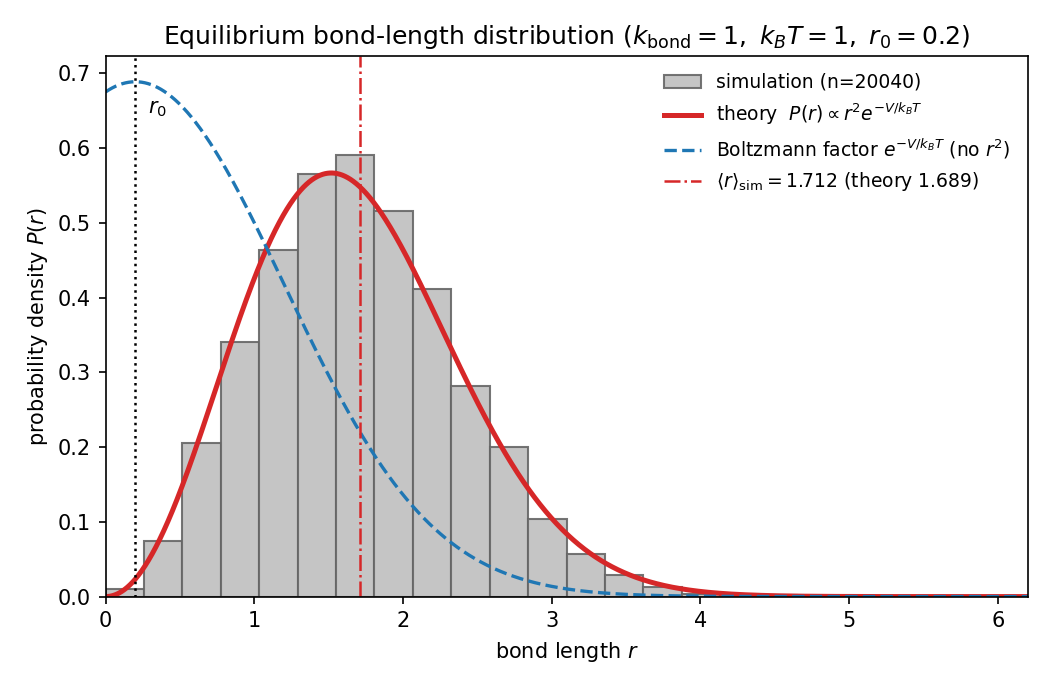
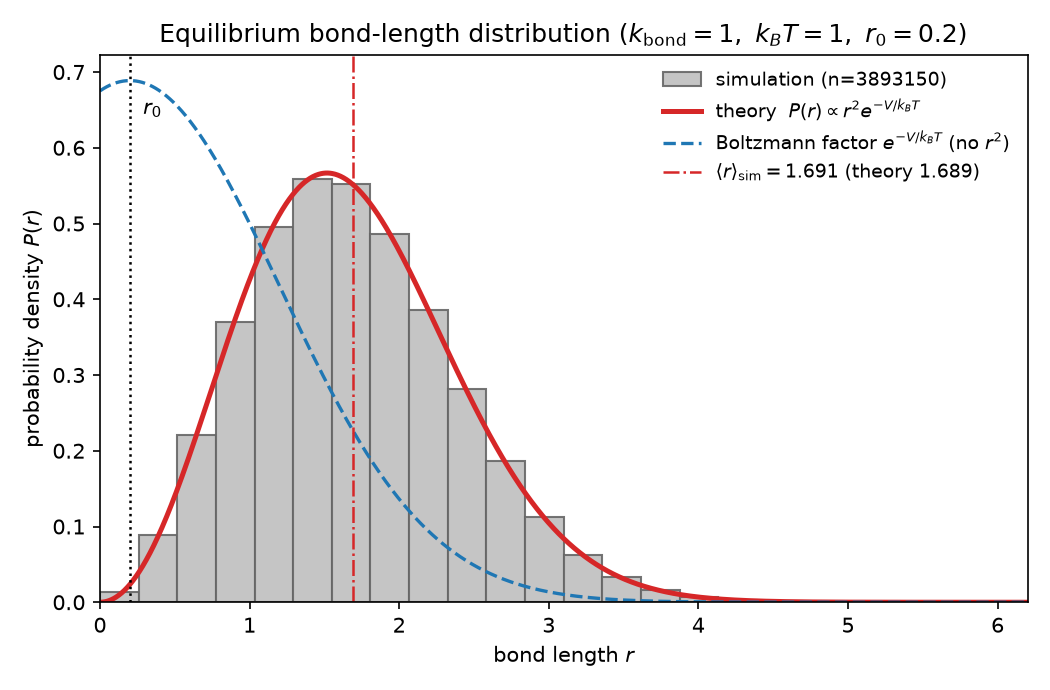
finished running simulation. Get negligble stress with only hundreds of dumbbells

Changed region(s): [[0.0, 0.0304, 0.9752, 0.9739], [0.1829, 0.1826, 0.2133, 0.2435]]

diff --git a/analyze_brownian_stresslet.py b/analyze_brownian_stresslet.py
@@ -1,0 +1,72 @@
+import numpy as np 
+import matplotlib.pyplot as plt
+import pickle
+import os
+
+def read_files(files):
+        traj = []
+        for file in files:
+            with open(file, 'r') as f:
+                lines = f.readlines()
+                particle_data = []
+                for line in lines:
+                    particle_data.append([float(i) for i in line.split()])
+                traj.append(particle_data)
+
+        return traj
+
+beta = 0.1
+fene = False
+
+def main(): 
+    data_dir = f'data/dumbbells_thermal_beta_{beta}_fene_{False}'
+    with open(os.path.join(data_dir, 'params.pkl'), 'rb') as f:
+        params = pickle.load(f)
+
+    data_config_dir = os.path.join(data_dir, 'config')
+    os.chdir(data_config_dir)
+    print(f"Current working directory: {os.getcwd()}")
+
+    files_config = [f for f in os.listdir() if os.path.isfile(f)]
+    files_brownian = [f for f in files_config if 'brownian_stresslet' in f]
+
+    # Sort the files by the number in the filename
+    sort_func = lambda x: float(x.split('_')[2])
+    files_brownian.sort(key=sort_func)
+
+    # Read the files and store the data in a numpy array
+    stresslet = np.array(read_files(files_brownian)).reshape(len(files_brownian), 5)
+
+    print(f"Brownian stresslet data with shape {stresslet.shape} loaded from {data_config_dir}")
+
+    # Stresslets were computed as 
+    # S1 = Sxx - Szz
+    # S2 = Sxy = Syx
+    # S3 = Sxz = Szx
+    # S4 = Syz = Szy
+    # S5 = Syy - Szz
+
+    # Plot the time-series of stresslet components
+    plt.figure(figsize=(10, 6))
+    plt.plot(stresslet[:, 0], label='S1 = Sxx - Szz')
+    # plt.plot(stresslet[:, 1], label='S2 = Sxy = Syx')
+    # plt.plot(stresslet[:, 2], label='S3 = Sxz = Szx')
+    # plt.plot(stresslet[:, 3], label='S4 = Syz = Szy')
+    plt.plot(stresslet[:, 4], label='S5 = Syy - Szz')
+    
+    plt.xlabel('Time step')
+    plt.ylabel('Stresslet components')
+    plt.title('Brownian Stresslet Components Time Series')
+    plt.legend()
+    # plt.savefig(os.path.join(data_dir, 'brownian_stresslet_time_series.png'))
+    plt.show()
+
+    mean_isotropic = np.mean(stresslet[:, 0] + stresslet[:, 4]) / 2
+    print(f"Mean isotropic stresslet: {mean_isotropic}")
+
+    mean_shear = np.mean(stresslet[:, 1:4], axis=0)
+    print(f"Mean shear stresslet components: {mean_shear}")
+    return
+
+if __name__ == "__main__":
+    main()

diff --git a/get_msd.py b/get_msd.py
@@ -1,0 +1,68 @@
+import numpy as np 
+import matplotlib.pyplot as plt
+import gsd.hoomd
+
+def getMSDTensor(r):
+    """
+    Computes the msd tensor for a time series of positions r(t) of a given particle.
+    r: ndarray (Nframes, 3)
+    """
+    # Uses window averaging
+    shifts = np.arange(len(r))
+    msds = np.zeros((shifts.size, 6))
+
+    for i, shift in enumerate(shifts):
+        progress = (i+1)/len(shifts)*100
+        if i % 100 == 0:
+            print(f"Computing MSD tensor: {progress:.2f}% complete")
+        diffs = r[:-shift if shift else None] - r[shift:]
+        diffs_x = diffs[:, 0]
+        diffs_y = diffs[:, 1]
+        diffs_z = diffs[:, 2]
+        msds[i,0] = np.mean(diffs_x**2)
+        msds[i,1] = np.mean(diffs_y**2)
+        msds[i,2] = np.mean(diffs_z**2)
+        msds[i,3] = np.mean(diffs_x*diffs_y)
+        msds[i,4] = np.mean(diffs_x*diffs_z)
+        msds[i,5] = np.mean(diffs_y*diffs_z)
+    return msds
+
+beta = 0.1
+fene = False
+input_file = f"data/dumbbells_thermal_beta_{beta}_fene_{fene}/trajectory.gsd"
+
+def main(): 
+    # Load the trajectory of the last particle
+    with gsd.hoomd.open(name=input_file, mode='r') as traj:
+        traj_colloid = np.array([frame.particles.position[-1] for frame in traj])
+
+    print(f"Trajectory of last particle with shape {traj_colloid.shape} loaded from {input_file}")
+
+    # Compute the MSD tensor
+    msd_tensor = getMSDTensor(traj_colloid)
+
+    # Save the MSD tensor to a file
+    output_file = f"data/dumbbells_thermal_beta_{beta}_fene_{fene}/msd_tensor.npy"
+    np.save(output_file, msd_tensor)
+    print(f"MSD tensor saved to {output_file}")
+
+    # Plot the MSD tensor components
+    plt.figure(figsize=(10, 6))
+    plt.plot(msd_tensor[:, 0], label='MSD_xx')
+    plt.plot(msd_tensor[:, 1], label='MSD_yy')
+    plt.plot(msd_tensor[:, 2], label='MSD_zz')
+    plt.plot(msd_tensor[:, 3], label='MSD_xy')
+    plt.plot(msd_tensor[:, 4], label='MSD_xz')
+    plt.plot(msd_tensor[:, 5], label='MSD_yz')
+    plt.xlabel('Time lag')
+    plt.ylabel('MSD tensor components')
+    plt.title('Mean Squared Displacement Tensor Components')
+    plt.legend()
+    plt.grid()
+    plt.savefig(f"data/dumbbells_thermal_beta_{beta}_fene_{fene}/msd_tensor_plot.png")
+    plt.show()
+    return
+
+
+if __name__ == "__main__":
+    main()

diff --git a/test_sim_dumbbells_thermal.py b/test_sim_dumbbells_thermal.py
@@ -319,7 +319,7 @@ def main(beta=0.1, dt=0.001, tmax=25.0, samplerate=None, run=True, box=None):
     if samplerate is None:
         samplerate = int(1 / dt)               # sample every 1/dt timesteps
 
-    N_dumbbell = 50
+    N_dumbbell = 200
     N_mono = 2                                  # 2-bead dumbbells
     N_trapped = 1                              # single trapped colloid
     N_mono_total = N_dumbbell * N_mono
@@ -328,16 +328,16 @@ def main(beta=0.1, dt=0.001, tmax=25.0, samplerate=None, run=True, box=None):
     # Bond / interaction parameters
     r0 = 2.0 * beta                            # bond rest length (small)
     kbond = 1.0
-    Lmax = 10 * r0                             # unused (harmonic), kept for the API
+    Lmax = 1.5*r0                             # unused (harmonic), kept for the API
     tau = 1000
     kT = 1.0
     epsilon = 1.0                              # WCA excluded-volume energy scale
     ktrap = 10                                # harmonic trap holding the colloid at the origin
-
+    fene = False
     conf = build_initial_config(N_dumbbell, r0, box=box)
     bond_ids = build_bond_ids(N_dumbbell)
 
-    data_save_dir = f'data/dumbbells_thermal_beta_{beta}'
+    data_save_dir = f'data/dumbbells_thermal_beta_{beta}_fene_{fene}'
     data_config_dir = os.path.join(data_save_dir, 'config')
     if run:
         if os.path.exists(data_config_dir):
@@ -357,7 +357,7 @@ def main(beta=0.1, dt=0.001, tmax=25.0, samplerate=None, run=True, box=None):
             dt, samplerate, tmax, data_config_dir,
             mm_HI=False,       # monomer-monomer HI off
             chain_HI=False,
-            fene=False,        # harmonic bonds
+            fene=fene,        # harmonic bonds
             record_forces=False,
             tether=False,      # free dumbbells (NOT tethered to the colloid)
             box=box,           # None => unbounded; [Lx,Ly,Lz] => periodic
@@ -381,6 +381,6 @@ def main(beta=0.1, dt=0.001, tmax=25.0, samplerate=None, run=True, box=None):
 
 
 if __name__ == "__main__":
-    dt = 0.0005
-    samplerate = 2; int(1/dt) # sample on brownian timescale of colloid
-    main(dt=dt, samplerate=samplerate, tmax=0.5, box=[8,8,8])
+    dt = 0.0001
+    samplerate = 10; int(1/dt) # sample on brownian timescale of colloid
+    main(dt=dt, samplerate=samplerate, tmax=50.0, box=[20,20,20])

diff --git a/src/rhs.cpp b/src/rhs.cpp
@@ -56,6 +56,10 @@ void trapping_forces(PetscScalar fext[], Consts& consts, Coeffs& coeffs, Particl
     PetscInt& ndimp = consts.ndimp;
     double& ktrap = trapinfo.ktrap;
 
+    if (std::abs(ktrap) < 1e-12){
+        return;
+    }
+
     if (t> trapinfo.tstop and trapinfo.weaken_trap >=0){
         ktrap = trapinfo.weaken_trap;
     }

diff --git a/make_gsd.py b/make_gsd.py
@@ -118,5 +118,6 @@ def main(beta=1, data_save_dir=None):
 
 if __name__ == '__main__':
     beta = 0.1
-    data_save_dir = f'data/dumbbells_thermal_beta_{beta}'
+    fene = False
+    data_save_dir = f'data/dumbbells_thermal_beta_{beta}_fene_{fene}'
     main(beta=beta, data_save_dir=data_save_dir)